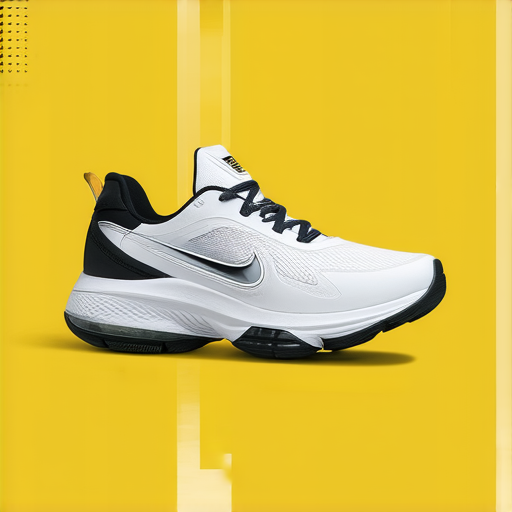
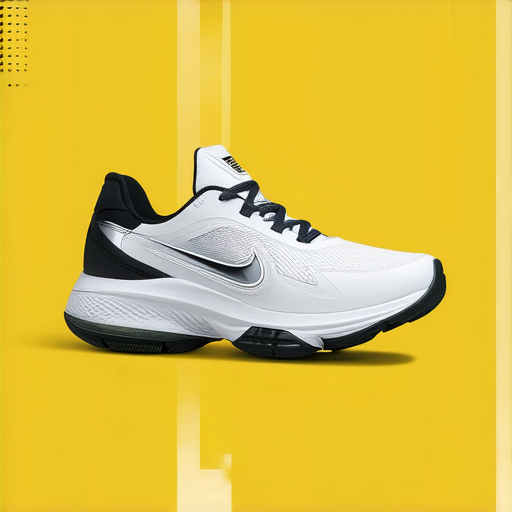
toy

diff --git a/scripts/07_run_token_thompson_toy.py b/scripts/07_run_token_thompson_toy.py
@@ -19,7 +19,7 @@ def main():
     opt = ThompsonOptimizer(dim_s, dim_z)
     
     # 模拟用户偏好目标
-    target_preference = "a luxury leather sneaker"
+    target_preference = "a white luxury leather sneaker"
 
     # --- 第一步：初始化 (冷启动/生成基础数据) ---
     print("Starting Cold Start...")
@@ -60,7 +60,7 @@ def main():
         z_full[:dim_z] = torch.from_numpy(best_z)
         
         # 生成图片 (Phase 1)
-        embeds = gen.encode_sandwich("a sneaker", "luxury style", z_full)
+        embeds = gen.encode_sandwich("a red sneaker", "luxury style", z_full)
         img = gen.generate(embeds, seed=999) 
         img.save(os.path.join(OUT_DIR, f"round_{t}.png"))
         
